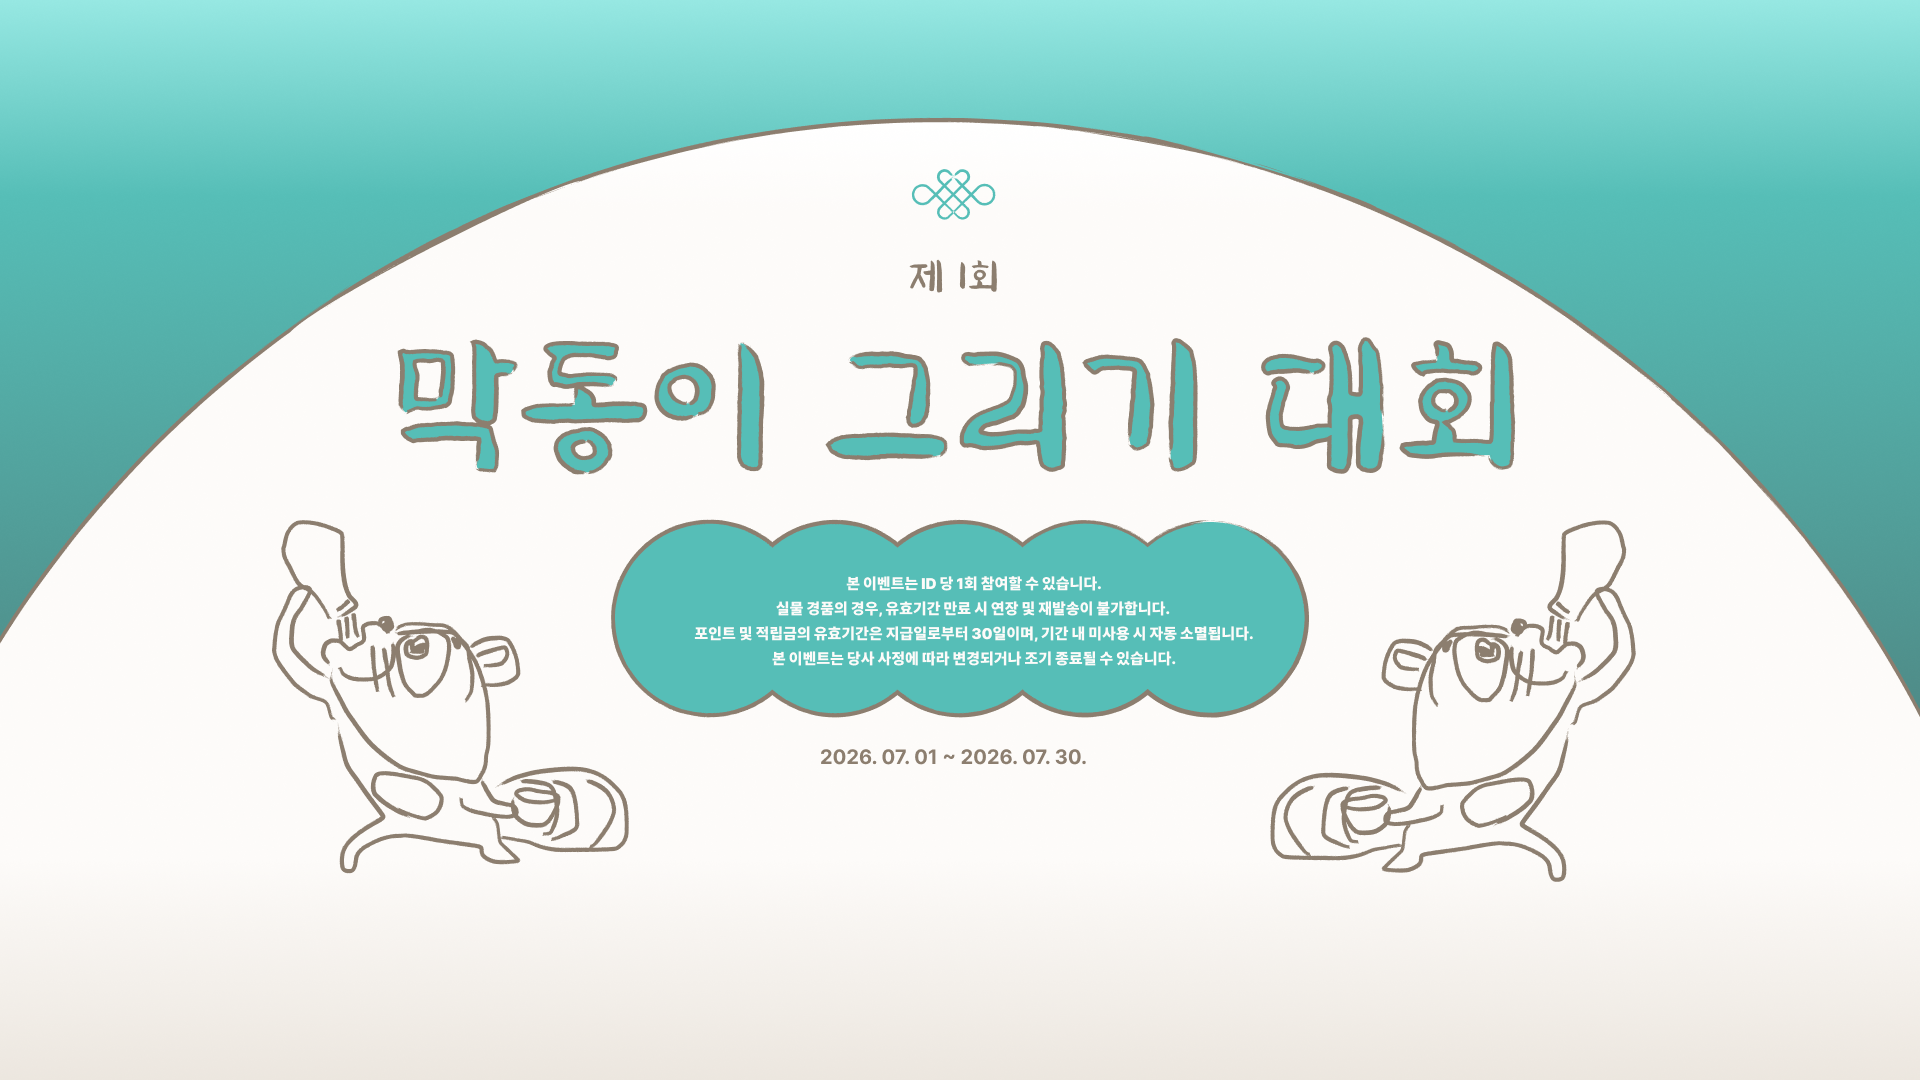
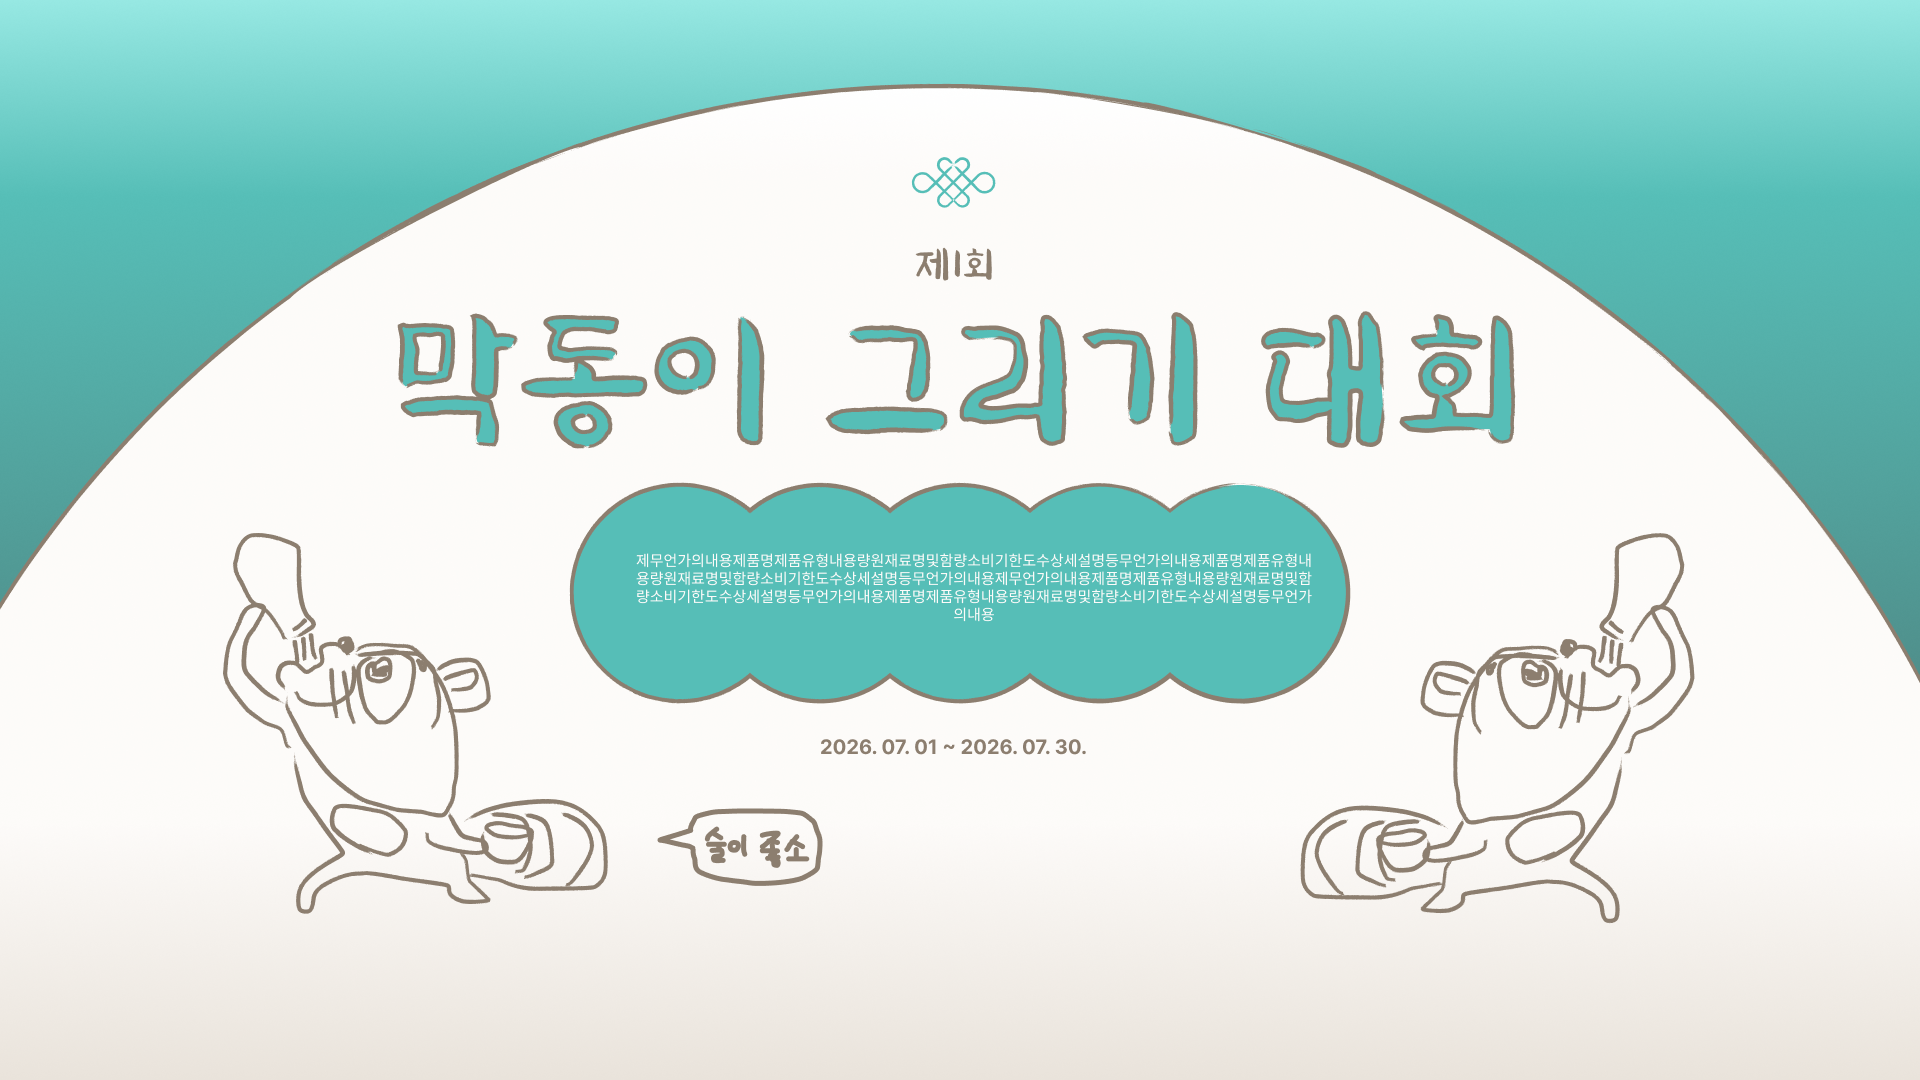
feat: 이벤트 페이지 라우팅 연결

Changed region(s): [[0.125, 0.1528, 0.875, 0.8556], [0.0, 0.0611, 0.9688, 0.5806], [0.9688, 0.55, 1.0, 0.6417]]

diff --git a/src/App.jsx b/src/App.jsx
@@ -55,6 +55,7 @@ import MyPageErrorContent from './pages/MyPage/MyPageErrorContent'
 
 // Event
 import EventList from './pages/Event/EventList'
+import EventReady from './pages/Event/EventReady'
 import RouletteEvent from './pages/Event/RouletteEvent'
 import OxQuizEvent from './pages/Event/OxQuizEvent'
 import CardGame from './pages/Event/CardGame'
@@ -403,6 +404,16 @@ const App = () => {
           />
 
 
+          {/* 이벤트 시작 안내 */}
+
+          <Route
+            path="/events/ready/:eventType"
+            element={
+              <EventReady />
+            }
+          />
+
+
           {/* 룰렛 이벤트 */}
 
           <Route
@@ -663,7 +674,7 @@ const App = () => {
       ======================================== */}
 
       <AdultModal
-        isOpen={ shouldShowAdultModal}
+        isOpen={shouldShowAdultModal}
         onVerify={
           handleAdultVerify
         }

diff --git a/src/pages/Event/CardGame.jsx b/src/pages/Event/CardGame.jsx
@@ -316,7 +316,7 @@ const CardGame = () => {
           <section className={styles.resultModal} role="dialog" aria-modal="true" aria-labelledby="result-title">
             <button className={styles.closeButton} type="button" aria-label="결과 닫기" onClick={() => navigate(PATHS.events)}>×</button>
             <h2 id="result-title">
-              {nickname ? `${nickname}나리가` : '나리가'} 맞추신 카드는 {result.pairCount}쌍 입니다!
+              {nickname ? `${nickname}나리가` : '나리가'} 맞추신 카드는 {result.pairCount}쌍입니다!
             </h2>
             <div className={styles.resultPoint}><span aria-hidden="true">P</span><strong>{result.score.toLocaleString('ko-KR')}P</strong></div>
             <dl>
